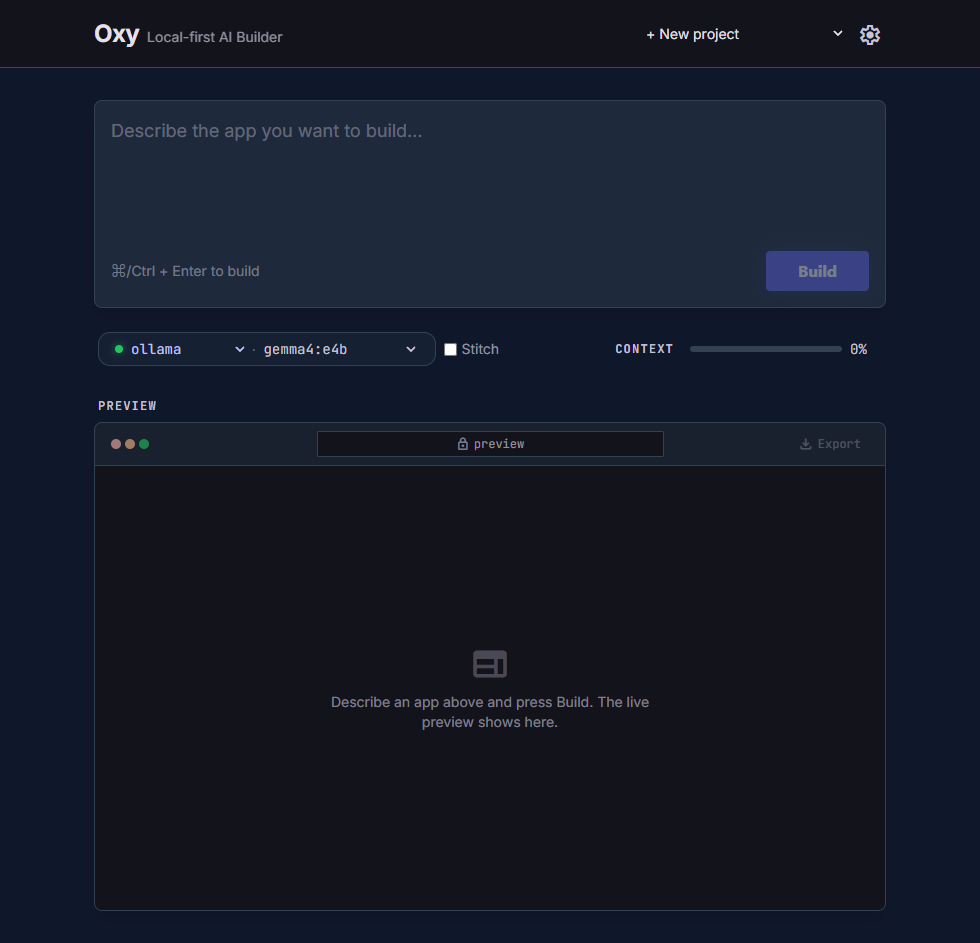
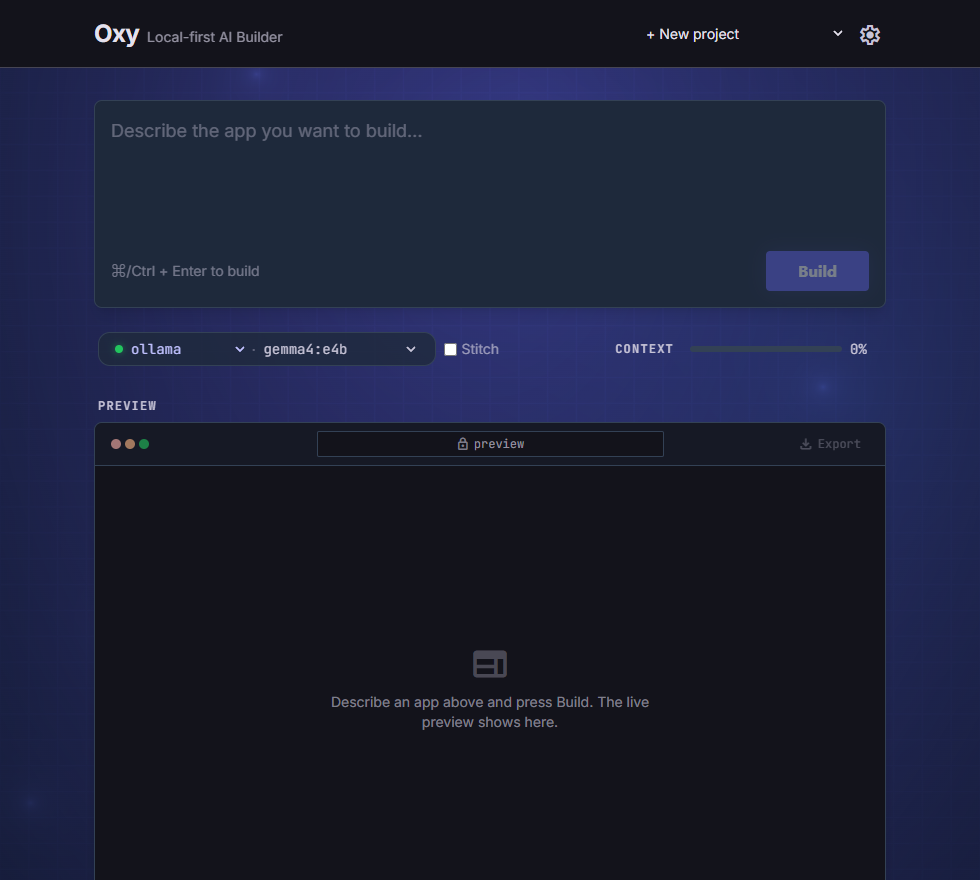
Bring back the animated nebula background (contrast-safe)
Re-add the WebGL nebula behind the UI, tuned to the slate/indigo palette and
subtler. It's safe now because the panels are solid (not translucent): body is
transparent so the canvas shows in the margins, html keeps the dark fallback, and
a gentle vignette keeps the edges calm. Bumped the two semi-transparent bits
(engine pill, preview bar) to stay crisp over it. Shader is derivative-free +
int-loop + StrictMode-safe (no context loss).

diff --git a/src/Background.tsx b/src/Background.tsx
@@ -1,0 +1,99 @@
+import { useEffect, useRef } from "react";
+
+// Animated WebGL nebula background (origin: a Google Stitch generation). A slow
+// drifting slate nebula with indigo/cyan glow cores, a faint grid, and slow
+// particles — tuned to sit BEHIND the solid UI panels so it shows in the margins
+// without hurting contrast. Derivative-free + int loop so it compiles on every GL
+// backend; no context loss on StrictMode remount. Degrades to the dark html
+// fallback if WebGL is unavailable.
+const VERT = `attribute vec2 a_position;
+varying vec2 v_texCoord;
+void main(){ v_texCoord = a_position * 0.5 + 0.5; gl_Position = vec4(a_position, 0.0, 1.0); }`;
+
+const FRAG = `precision highp float;
+uniform float u_time;
+uniform vec2 u_resolution;
+varying vec2 v_texCoord;
+float noise(vec2 p){ return fract(sin(dot(p, vec2(12.9898,78.233))) * 43758.5453); }
+void main(){
+  vec2 uv = v_texCoord;
+  vec2 p = uv - 0.5;
+  p.x *= u_resolution.x / u_resolution.y;
+  vec3 color1 = vec3(0.05, 0.07, 0.14);   // slate (~brand-slate)
+  vec3 color2 = vec3(0.10, 0.07, 0.20);   // violet-slate
+  float drift = u_time * 0.05;
+  float mask = smoothstep(0.1, 0.9, sin(uv.x * 2.0 + drift) * 0.5 + 0.5);
+  vec3 nebula = mix(color1, color2, mask);
+  // two slow drifting glow cores: indigo (#6366F1) + cyan
+  nebula += vec3(0.39, 0.40, 0.95) * (0.13 / (length(p - vec2(sin(drift), cos(drift)) * 0.35) + 0.60));
+  nebula += vec3(0.10, 0.55, 0.85) * (0.10 / (length(p - vec2(cos(drift * 0.8), sin(drift * 0.7)) * 0.42) + 0.65));
+  // faint drifting grid (derivative-free)
+  vec2 g = uv * 34.0; g.y += u_time * 0.18;
+  vec2 gf = abs(fract(g - 0.5) - 0.5);
+  float line = 1.0 - smoothstep(0.0, 0.05, min(gf.x, gf.y));
+  nebula += vec3(0.30, 0.34, 0.85) * line * 0.03;
+  // slow particles
+  for (int i = 0; i < 12; i++) {
+    float fi = float(i);
+    vec2 pos = vec2(noise(vec2(fi, 1.0)), noise(vec2(fi, 2.0)));
+    pos.y = fract(pos.y - u_time * 0.02);
+    float d = length(uv - pos);
+    nebula += vec3(0.4, 0.5, 1.0) * 0.0012 / (d + 0.006);
+  }
+  gl_FragColor = vec4(nebula, 1.0);
+}`;
+
+export function Background() {
+  const ref = useRef<HTMLCanvasElement>(null);
+  useEffect(() => {
+    const canvas = ref.current;
+    if (!canvas) return;
+    const gl = (canvas.getContext("webgl", { preserveDrawingBuffer: true }) || canvas.getContext("experimental-webgl")) as WebGLRenderingContext | null;
+    if (!gl) return;
+    const compile = (type: number, src: string) => {
+      const s = gl.createShader(type)!;
+      gl.shaderSource(s, src);
+      gl.compileShader(s);
+      if (!gl.getShaderParameter(s, gl.COMPILE_STATUS)) console.warn("[oxy bg] shader compile failed:", gl.getShaderInfoLog(s));
+      return s;
+    };
+    const prog = gl.createProgram()!;
+    gl.attachShader(prog, compile(gl.VERTEX_SHADER, VERT));
+    gl.attachShader(prog, compile(gl.FRAGMENT_SHADER, FRAG));
+    gl.linkProgram(prog);
+    if (!gl.getProgramParameter(prog, gl.LINK_STATUS)) {
+      console.warn("[oxy bg] program link failed:", gl.getProgramInfoLog(prog));
+      return;
+    }
+    gl.useProgram(prog);
+    const buf = gl.createBuffer();
+    gl.bindBuffer(gl.ARRAY_BUFFER, buf);
+    gl.bufferData(gl.ARRAY_BUFFER, new Float32Array([-1, -1, 1, -1, -1, 1, 1, 1]), gl.STATIC_DRAW);
+    const posLoc = gl.getAttribLocation(prog, "a_position");
+    gl.enableVertexAttribArray(posLoc);
+    gl.vertexAttribPointer(posLoc, 2, gl.FLOAT, false, 0, 0);
+    const uTime = gl.getUniformLocation(prog, "u_time");
+    const uRes = gl.getUniformLocation(prog, "u_resolution");
+    let raf = 0;
+    const resize = () => {
+      const w = canvas.clientWidth || window.innerWidth;
+      const h = canvas.clientHeight || window.innerHeight;
+      if (canvas.width !== w || canvas.height !== h) {
+        canvas.width = w;
+        canvas.height = h;
+      }
+    };
+    const render = (t: number) => {
+      resize();
+      gl.viewport(0, 0, canvas.width, canvas.height);
+      gl.uniform1f(uTime, t * 0.001);
+      gl.uniform2f(uRes, canvas.width, canvas.height);
+      gl.drawArrays(gl.TRIANGLE_STRIP, 0, 4);
+      raf = requestAnimationFrame(render);
+    };
+    raf = requestAnimationFrame(render);
+    // only stop the loop on cleanup — do NOT lose the context (StrictMode remount)
+    return () => cancelAnimationFrame(raf);
+  }, []);
+  return <canvas ref={ref} className="bg-canvas" aria-hidden="true" />;
+}

diff --git a/src/oxy.css b/src/oxy.css
@@ -3,10 +3,33 @@
 @tailwind utilities;
 
 /* Custom bits from the Stitch design (design/stitch-ui.html) that aren't utilities. */
-body {
+/* dark fallback on the root only; body MUST stay transparent so the fixed nebula
+   canvas (z-index:-2) shows through in the margins behind the solid panels */
+html {
   background-color: #0f172a; /* brand-slate */
+}
+body {
+  background: transparent;
   color: #e4e1ed; /* on-surface */
   -webkit-font-smoothing: antialiased;
+}
+.bg-canvas {
+  position: fixed;
+  inset: 0;
+  width: 100vw;
+  height: 100vh;
+  z-index: -2;
+  display: block;
+}
+/* gentle vignette so the nebula stays calm toward the edges (content is on solid
+   panels, so this only affects empty margins) */
+body::after {
+  content: "";
+  position: fixed;
+  inset: 0;
+  z-index: -1;
+  pointer-events: none;
+  background: radial-gradient(ellipse at 50% 22%, rgba(15, 23, 42, 0) 0%, rgba(15, 23, 42, 0.35) 68%, rgba(15, 23, 42, 0.6) 100%);
 }
 .material-symbols-outlined {
   font-variation-settings: "FILL" 0, "wght" 400, "GRAD" 0, "opsz" 24;

diff --git a/src/App.tsx b/src/App.tsx
@@ -1,5 +1,6 @@
 import { useEffect, useMemo, useRef, useState } from "react";
 import type { AgentStep } from "../agent/types.ts";
+import { Background } from "./Background.tsx";
 import { Settings } from "./Settings.tsx";
 import { exportUrl, getProjects, getStatus, previewUrl, runBuild, type BuildEvent, type OxyStatus, type ProjectInfo } from "./api.ts";
 
@@ -168,6 +169,7 @@ export function App() {
 
   return (
     <>
+      <Background />
       <header className="bg-background border-b border-outline-variant fixed top-0 w-full z-50">
         <div className="flex justify-between items-center max-w-[840px] mx-auto px-lg py-md w-full">
           <div className="flex items-baseline gap-sm">
@@ -235,7 +237,7 @@ export function App() {
         {/* Status bar */}
         <section className="flex flex-col md:flex-row justify-between items-center gap-md mb-xl px-xs">
           <div className="flex items-center gap-sm flex-wrap">
-            <div className="border border-brand-border bg-brand-panel/50 px-md py-xs rounded-full flex items-center gap-xs">
+            <div className="border border-brand-border bg-brand-panel/80 px-md py-xs rounded-full flex items-center gap-xs">
               <span className="w-2 h-2 rounded-full bg-green-500 shadow-[0_0_8px_rgba(34,197,94,0.6)]" />
               <select className="oxy-field text-primary font-code-md text-code-md" value={engine} onChange={(e) => changeEngine(e.target.value)}>
                 {status?.engines.ollama && <option value="ollama">ollama</option>}
@@ -334,7 +336,7 @@ export function App() {
         <section>
           <h3 className="font-label-caps text-label-caps text-on-surface-variant uppercase tracking-widest mb-sm ml-xs">Preview</h3>
           <div className="bg-brand-panel border border-brand-border rounded-xl overflow-hidden shadow-lg">
-            <div className="flex items-center justify-between gap-md px-md py-sm border-b border-brand-border bg-background/40">
+            <div className="flex items-center justify-between gap-md px-md py-sm border-b border-brand-border bg-background/70">
               <div className="flex gap-xs w-1/4">
                 <span className="w-2.5 h-2.5 rounded-full bg-error/60" />
                 <span className="w-2.5 h-2.5 rounded-full bg-tertiary/60" />